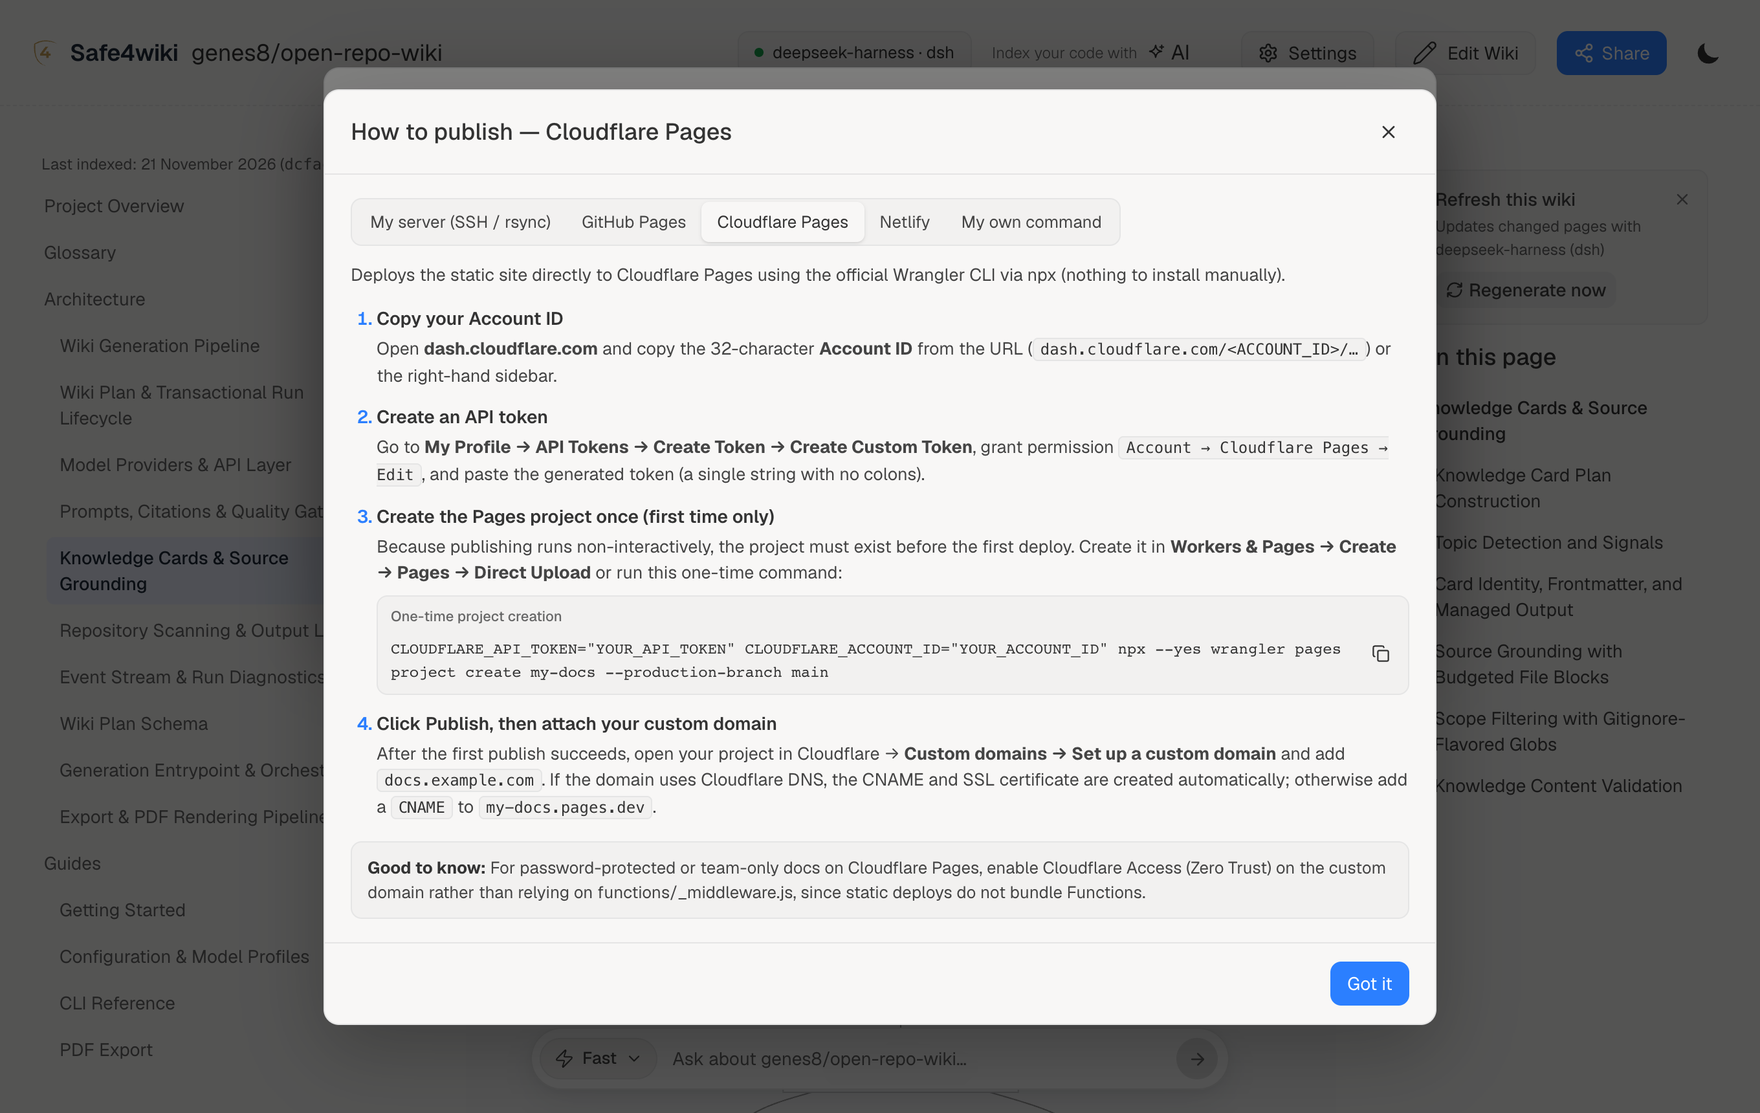
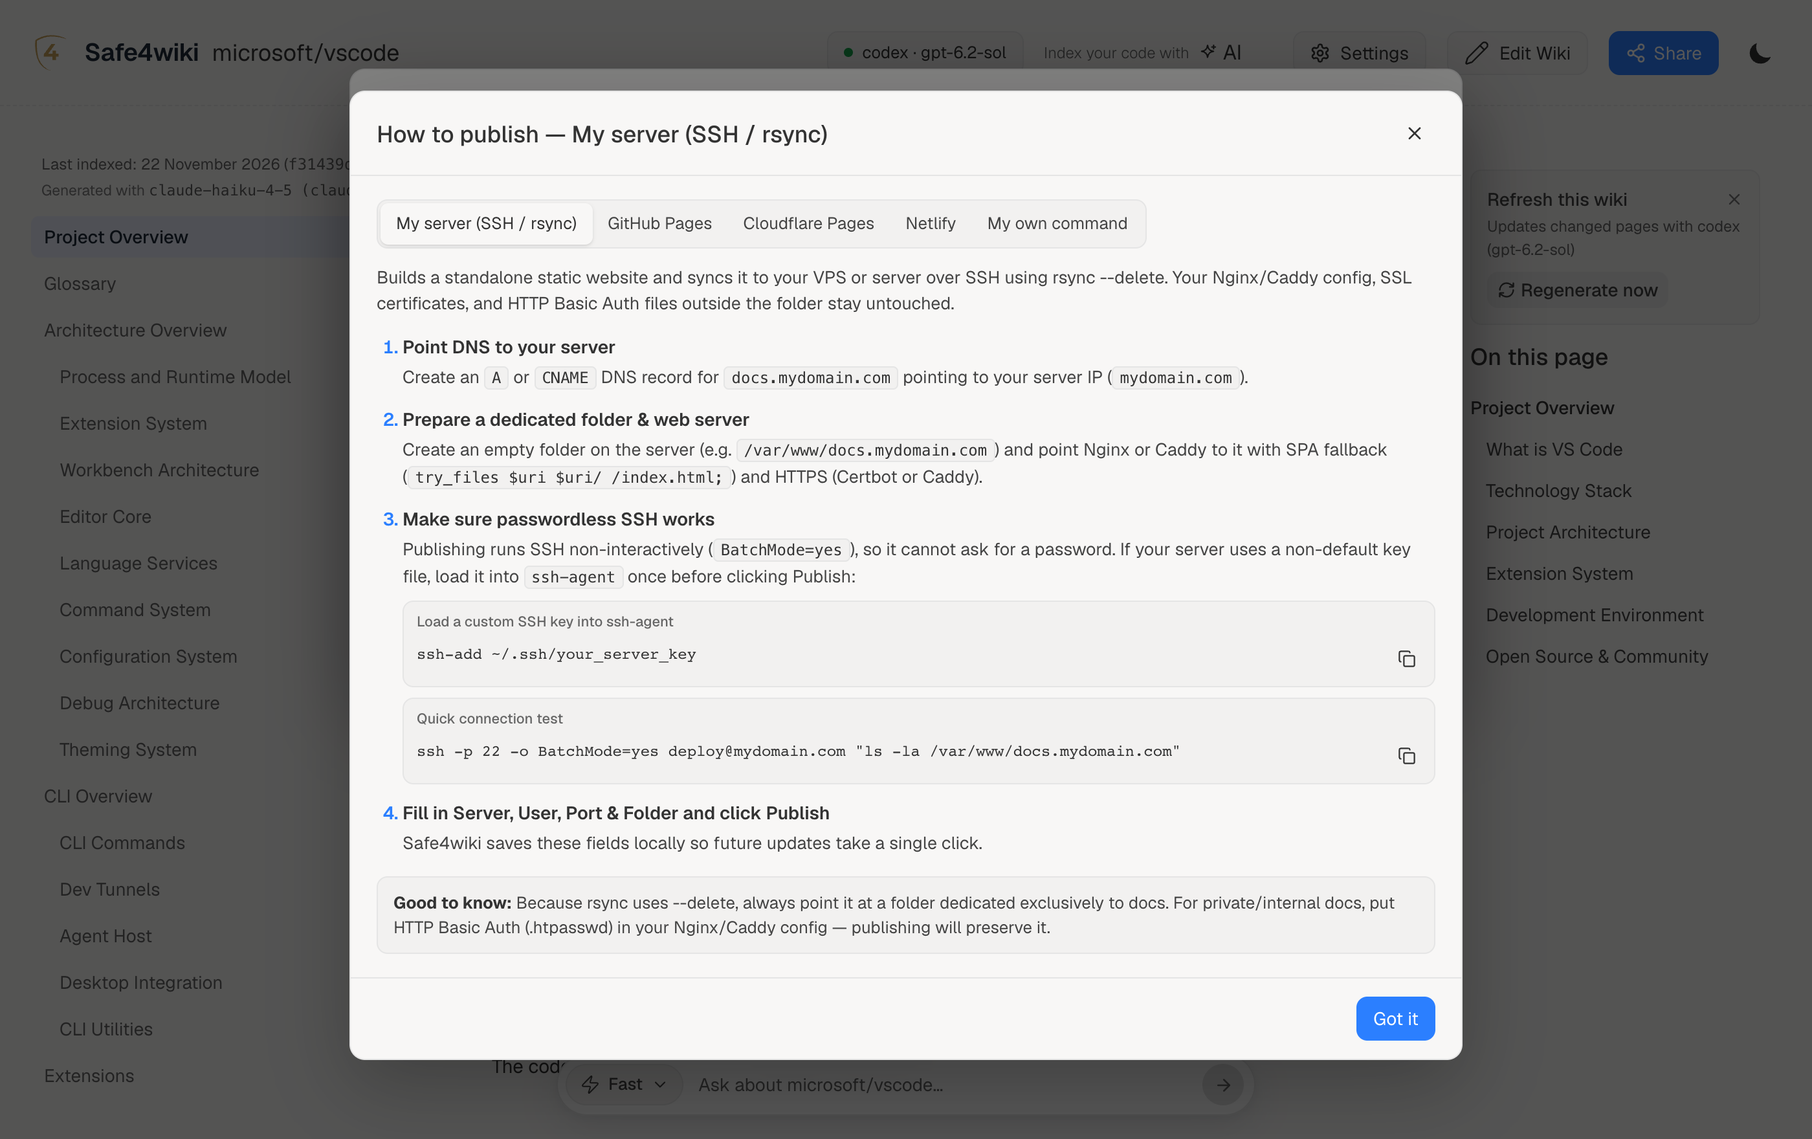
Refresh README to flagship open-source layout with 6 new 2x Retina screenshots

diff --git a/README.md b/README.md
@@ -1,65 +1,59 @@
-# Safe4wiki
+<div align="center">
+  <img src="public/brand/logo-monogram-gold.svg" alt="Safe4wiki Logo" width="68" height="68" />
+  <h1>Safe4wiki</h1>
+  <p><strong>Local-first, privacy-first AI documentation wiki for any codebase.</strong></p>
+  <p>
+    Turn local folders and private or public Git repositories into deep, citation-verified engineering wikis with rendered Mermaid diagrams, hybrid RAG code chat, offline PDF/HTML exports, and 1-click subdomain publishing — running 100% on your own machine.
+  </p>
 
-[![CI](https://github.com/Safe4ai-com/Safe4wiki/actions/workflows/ci.yml/badge.svg)](https://github.com/Safe4ai-com/Safe4wiki/actions/workflows/ci.yml)
-[![License](https://img.shields.io/badge/License-Apache_2.0-blue.svg)](LICENSE)
-[![Part of SafeSuite](https://img.shields.io/badge/SafeSuite-by%20Safe4AI-0f172a.svg)](https://safe4ai.com)
+  <p>
+    <a href="https://github.com/Safe4ai-com/Safe4wiki/actions/workflows/ci.yml">
+      <img src="https://github.com/Safe4ai-com/Safe4wiki/actions/workflows/ci.yml/badge.svg" alt="CI" />
+    </a>
+    <a href="https://github.com/Safe4ai-com/Safe4wiki/releases">
+      <img src="https://img.shields.io/github/v/release/Safe4ai-com/Safe4wiki?color=c5a059&label=Release" alt="Release" />
+    </a>
+    <a href="LICENSE">
+      <img src="https://img.shields.io/badge/License-Apache_2.0-2563eb.svg" alt="Apache-2.0 License" />
+    </a>
+    <a href="#quick-start">
+      <img src="https://img.shields.io/badge/Node.js-%E2%89%A518-339933.svg?logo=node.js&logoColor=white" alt="Node.js >= 18" />
+    </a>
+    <a href="https://safe4ai.com">
+      <img src="https://img.shields.io/badge/SafeSuite-by%20Safe4AI-0f172a.svg" alt="Part of SafeSuite by Safe4AI" />
+    </a>
+  </p>
 
-**Local-first, privacy-first AI documentation wiki for any codebase.**  
-Part of **[SafeSuite](https://github.com/Safe4ai-com)** — open-source AI engineering tools by **[Safe4AI](https://safe4ai.com)**.
+  <p>
+    <a href="#quick-start">Quick Start</a> ·
+    <a href="#key-features">Features</a> ·
+    <a href="#supported-ai-backends">Supported Models</a> ·
+    <a href="#benchmark-safe4wiki-vs-deepwikicom">Benchmark</a> ·
+    <a href="#architecture">Architecture</a> ·
+    <a href="#export--1-click-subdomain-publishing">Export &amp; Publish</a>
+  </p>
+</div>
 
-Generate deep, citation-grounded repository wikis with Mermaid architecture diagrams, explore your codebase through a hybrid RAG assistant with a live split-view code inspector, export offline single-file HTML or print-quality PDFs, and publish directly to your own subdomain — using **local LLMs**, **cloud APIs**, or **agent CLIs**.
+<br />
 
-![Safe4wiki Overview](docs/screenshots/wiki-overview.png)
+<div align="center">
+  <picture>
+    <source media="(prefers-color-scheme: dark)" srcset="docs/screenshots/home-dark.png" />
+    <source media="(prefers-color-scheme: light)" srcset="docs/screenshots/home-light.png" />
+    <img src="docs/screenshots/home-dark.png" alt="Safe4wiki Home Screen" width="100%" />
+  </picture>
+</div>
 
 ---
 
-## Benchmark: Safe4wiki vs DeepWiki.com
+## Why Safe4wiki?
 
-We ran a head-to-head comparison on the exact same public repository and commit — **[`genes8/open-repo-wiki`](https://github.com/genes8/open-repo-wiki) @ `dcfac26`** (101 repository files) — auditing every generated page on disk and live in headless Chrome:
+Most AI documentation tools force you to upload private source code to a third-party cloud, lock you into a single model, and leave you stuck inside a hosted viewer. **Safe4wiki flips the model:**
 
-| Metric | **Safe4wiki (Local)** | **DeepWiki.com (Hosted)** |
-|---|---:|---:|
-| **Pages generated** | **34** *(auto-scaled, incl. Glossary & 6 Design Docs)* | 33 |
-| **Documentation depth** | **36,540 words** · **71 structured tables** | ~300–450 words & 0 tables on core pages *(Overview: 341w, Engine: 442w, Providers: 273w)* |
-| **Mermaid diagrams (live Chrome render)** | **38 / 38 rendered (100%, 0 errors)** | **3 broken diagrams** across 4 inspected pages *(incl. both diagrams on LLM Provider Layer)* |
-| **Repository file coverage** | **96 / 101 files (95.0%)** | ~90% |
-| **Verified source citations** | **661 / 662 (99.8%)**, cleanly deduplicated into 1 drawer per page | Mixed unlinked plain-text citations & repeated `Sources:` blocks |
-| **Rendering / formatting defects** | **0** | Unrendered raw LaTeX (`Node.js $\ge$ 18`) + broken diagrams |
-| **Privacy & model choice** | **100% local** — Ollama, LM Studio, GGUF, BYO API, or Agent CLIs | Cloud-hosted only |
-| **Offline export & self-hosting** | Single-file offline HTML, Print PDF, Static ZIP, 1-click Publish | Web viewer only |
-
-> **Why Safe4wiki renders 100% of Mermaid diagrams:** Safe4wiki includes an automatic Mermaid sanitizer + retry renderer and fenced-code parser safeguards so tricky labels (parentheses, colons, inline backticks) still render cleanly as crisp SVGs.
-
----
-
-## Key Features
-
-- **100% Local & Private by Default** — Runs on `localhost:4317`. Works with local folders or private Git repositories (tokens stored locally with `chmod 600` and never exposed to the browser). Ships with 2 complete, real-world **example wikis** (`microsoft/vscode` — 60 pages, `microsoft/playwright` — 49 pages) so you can inspect the full output quality immediately while your own generated wikis stay private under `~/.repowiki`.
-- **Interchangeable AI Backends**
-  - **Local models:** Ollama, LM Studio, llama.cpp server, vLLM, or direct `.gguf` inference (`node-llama-cpp`)
-  - **Cloud APIs:** Any OpenAI-compatible endpoint (OpenAI, OpenRouter, Groq, DeepSeek, GLM, self-hosted) and Anthropic-compatible endpoints
-  - **Agent CLIs:** DeepSeek Harness (`dsh`), ZCode, Claude Code, Codex, Gemini CLI, OpenCode, or any custom CLI command
-- **Deep, Grounded Wiki Generation**
-  - Auto-scaling page budget (`Auto` adapts from small repos up to 60+ pages with up to 3-level hierarchy)
-  - Automatic project **Glossary** and structured landing pages
-  - Verified source-file citations deduplicated cleanly into each page's **Relevant source files** drawer
-  - Auto-healed **Mermaid** diagrams with pan/zoom lightbox and instant cache
-  - Transactional staged builds + incremental regeneration (skips unchanged pages and preserves manual edits)
-- **Hybrid RAG Code Assistant**
-  - Combines wiki sections and source-code chunks (BM25 + optional background semantic embeddings with zero startup wait)
-  - Streamed answers with clickable file & line-range chips
-  - On-demand **Split-View Live Code Inspector** and file attachments
-- **Export & 1-Click Subdomain Publishing**
-  - **Single-file offline HTML (`*-docs.html`)** — self-contained with pre-rendered SVG diagrams, sidebar, search, and dark/light theme (works directly via `file://` with zero external requests)
-  - **Print-quality PDF** — cover page, table of contents, and rendered diagrams via Chromium/Playwright
-  - **Static Website Export (ZIP or folder)** — with fast client-side search across all pages
-  - **Publish to your subdomain** with built-in step-by-step setup guides: **SSH / rsync**, **GitHub Pages** (auto `CNAME` + `.nojekyll`), **Cloudflare Pages**, **Netlify**, or **custom command**
-
-### Architecture Diagrams & Built-in Publishing Guides
-
-![Rendered Mermaid Diagram](docs/screenshots/wiki-diagram.png)
-
-![Publish Setup Guide](docs/screenshots/publish-setup-guide.png)
+- **Your code never leaves your machine** unless you explicitly choose a cloud API — run completely offline with **Ollama**, **LM Studio**, **llama.cpp**, or a raw **`.gguf`** file.
+- **Bring any model or coding CLI** — seamlessly switch between local GPUs, OpenAI/Anthropic-compatible APIs, or your existing CLI subscriptions (**Claude Code**, **Codex**, **OpenCode**, **DeepSeek Harness**, **ZCode**, **Gemini CLI**).
+- **Never lose progress on large repos** — pause anytime, auto-pause when a provider hits rate/5-hour limits, and resume from the exact next page (even after switching models).
+- **Own the output** — export a print-ready **PDF**, a single self-contained **offline HTML** handbook, or publish a static site directly to **your own subdomain** in one click.
 
 ---
 
@@ -69,14 +63,16 @@ We ran a head-to-head comparison on the exact same public repository and commit 
 
 ### Option A — 1-Click Local App Launcher (macOS)
 
-[![Open Safe4wiki.command](docs/assets/launch-safe4wiki.svg)](Open%20Safe4wiki.command)
+<a href="Open%20Safe4wiki.command">
+  <img src="docs/assets/launch-safe4wiki.svg" alt="Open Safe4wiki.command" width="460" />
+</a>
 
-After cloning or downloading the repo, simply double-click **[`Open Safe4wiki.command`](Open%20Safe4wiki.command)** in Finder:
-- Automatically installs dependencies and builds the UI on first launch (if not built yet)
-- Starts the local Safe4wiki server and opens **`http://localhost:4317`** in your browser
-- If Safe4wiki is already running, it opens the browser tab immediately without starting a second server
+After cloning or downloading the repo, double-click **[`Open Safe4wiki.command`](Open%20Safe4wiki.command)** in Finder:
+- Automatically installs dependencies and builds the UI on first launch
+- Starts the local server and opens **`http://localhost:4317`** in your browser
+- Re-clicking while already running opens the browser tab immediately without spawning a duplicate server
 
-*(First time on macOS: if Gatekeeper prompts, right-click `Open Safe4wiki.command` → **Open** once.)*
+*(First launch on macOS: if Gatekeeper prompts, right-click `Open Safe4wiki.command` → **Open** once.)*
 
 ### Option B — Terminal (macOS, Linux, Windows)
 
@@ -88,45 +84,166 @@ npm run build
 npm start
 ```
 
-Safe4wiki opens automatically at **`http://localhost:4317`**.
+Safe4wiki opens automatically at **`http://localhost:4317`** with **2 complete, real-world example wikis** already bundled so you can explore the full UI immediately:
+- **[`microsoft/vscode`](src/data/demos/vscode.js)** — **60 pages** generated with `claude-haiku-4-5`
+- **[`microsoft/playwright`](src/data/demos/playwright.js)** — **49 pages** generated with `deepseek-v4.1-flash-free (opencode)` + `claude-haiku-4-5`
 
 ---
 
-## First-Time Workflow
+## Visual Tour
 
-1. **Configure a model** — Click **Settings** in the top bar and pick a preset (Ollama, LM Studio, OpenAI/Anthropic API, or an installed Agent CLI such as `dsh`, `claude`, `codex`, `gemini`, `zcode`, or `opencode`), then click **Test**.
-2. **Add a repository** — Click **Add repository** on the home screen and point it to a local folder or a Git URL (SSH or HTTPS + token).
-3. **Explore & ask** — Browse generated chapters and diagrams, or use the **Ask about …** bar at the bottom to run hybrid RAG queries with clickable source citations and live code inspection.
-4. **Export or publish** — Click **Share** to export a single-file offline HTML handbook, print-ready PDF, static hosting bundle, or publish directly to your subdomain (click **`ⓘ Setup guide`** inside the Publish dialog for step-by-step instructions per host).
+### Deep, Citation-Grounded Documentation & 3-Level Navigation
+Every page is verified against real repository files, cleanly deduplicated into a collapsible **Relevant source files** drawer, tagged with the exact commit & generating model, and paired with a floating **Hybrid RAG** chat bar.
+
+<img src="docs/screenshots/wiki-overview.png" alt="Safe4wiki VS Code Documentation Overview" width="100%" />
+
+### Auto-Healed Mermaid Architecture Diagrams
+Safe4wiki validates and automatically repairs Mermaid syntax (sequence diagrams, flowcharts, class diagrams, state graphs) with an interactive pan/zoom lightbox and instant client-side SVG caching.
+
+<img src="docs/screenshots/wiki-diagram.png" alt="Safe4wiki Rendered Mermaid Sequence Diagram" width="100%" />
+
+### Unified Model Hub — Local, Cloud APIs & Agent CLIs
+Configure separate models for wiki generation and chat, trigger 1-click Terminal authentication (`Auth`), pick reasoning effort per CLI, and live-discover installed models from Ollama, OpenCode, and Codex.
+
+<img src="docs/screenshots/model-settings.png" alt="Safe4wiki Models and Settings Dialog" width="100%" />
+
+### Built-In Step-by-Step Subdomain Publishing Guides
+Click **`Share → Publish to my subdomain → ⓘ Setup guide`** for tailored, copyable setup commands covering **SSH / rsync**, **GitHub Pages**, **Cloudflare Pages**, **Netlify**, and custom deploy scripts.
+
+<img src="docs/screenshots/publish-setup-guide.png" alt="Safe4wiki Built-In Publish Setup Guide" width="100%" />
 
 ---
 
-## Configuration
+## Key Features
 
-| Environment Variable | Default | Description |
-|---|---|---|
-| `PORT` | `4317` | Local HTTP port (`127.0.0.1` only) |
-| `REPOWIKI_HOME` | `~/.repowiki` | Directory where settings, generated wikis, embeddings cache, and cloned repos are stored |
-
-For PDF export, Safe4wiki automatically uses an installed Chrome/Chromium browser or Playwright Chromium (`npx playwright install chromium`). If neither is available, it falls back cleanly to browser print view.
+<table>
+  <tr>
+    <td width="50%" valign="top">
+      <h3>Deep Multi-Page Wiki Engine</h3>
+      <ul>
+        <li><strong>Auto-scaling page budget</strong> — adapts automatically from small libraries to 60+ page monorepos with 3-level nested trees and automatic <strong>Glossary</strong> pages.</li>
+        <li><strong>Pause, Resume &amp; Auto-Pause</strong> — saves completed pages and the accepted plan to disk; automatically pauses on provider quota/rate limits (including 5-hour CLI limits) so you can resume later or finish with another model.</li>
+        <li><strong>Smart Parallel Scheduler</strong> — runs multiple cloud/CLI generations simultaneously across different repos while serializing local GPU models cleanly to prevent VRAM thrashing.</li>
+        <li><strong>Transactional &amp; Incremental</strong> — staged builds never corrupt a live wiki; regenerations skip unchanged pages and preserve manual edits.</li>
+      </ul>
+    </td>
+    <td width="50%" valign="top">
+      <h3>Hybrid RAG Chat &amp; Code Inspector</h3>
+      <ul>
+        <li><strong>Hybrid retrieval</strong> — combines BM25 lexical search over wiki sections &amp; source chunks with optional background semantic embeddings (zero startup delay).</li>
+        <li><strong>Verified line citations</strong> — streamed answers include clickable file and line-range chips.</li>
+        <li><strong>Split-View Code Inspector</strong> — click any cited file to inspect highlighted source code side-by-side without leaving the wiki.</li>
+        <li><strong>File attachments &amp; model selector</strong> — attach extra context files and pick a fast dedicated chat model independently from your wiki generator.</li>
+      </ul>
+    </td>
+  </tr>
+  <tr>
+    <td width="50%" valign="top">
+      <h3>Privacy-First Local Architecture</h3>
+      <ul>
+        <li><strong>Localhost-only server</strong> (<code>127.0.0.1:4317</code>) with zero telemetry.</li>
+        <li><strong>Private Git &amp; LFS support</strong> — works with local folders, SSH keys, or HTTPS tokens (stored locally with <code>chmod 600</code> and masked from the browser), skipping Git LFS smudges cleanly.</li>
+        <li><strong>Isolated CLI credentials</strong> — keeps per-tool auth sessions clean without interfering with desktop apps.</li>
+        <li><strong>Model provenance</strong> — subtly displays <code>Generated with &lt;model&gt;</code> on wiki cards, sidebars, HTML exports, and PDF covers for transparent quality comparisons.</li>
+      </ul>
+    </td>
+    <td width="50%" valign="top">
+      <h3 id="export--1-click-subdomain-publishing">Export &amp; 1-Click Subdomain Publishing</h3>
+      <ul>
+        <li><strong>Single-file offline HTML (<code>*-docs.html</code>)</strong> — self-contained handbook with pre-rendered SVG diagrams, full-text search, and dark/light theme that works directly via <code>file://</code>.</li>
+        <li><strong>Print-quality PDF</strong> — cover page, numbered table of contents, and crisp vector diagrams via Chromium/Playwright.</li>
+        <li><strong>Static website bundle (ZIP / folder)</strong> — ready for any CDN or static host with instant client-side search.</li>
+        <li><strong>1-Click Publish</strong> — deploy straight to <strong>SSH/rsync</strong> (preserves Nginx/Basic Auth/SSL), <strong>GitHub Pages</strong> (auto <code>CNAME</code> + <code>.nojekyll</code>), <strong>Cloudflare Pages</strong>, <strong>Netlify</strong>, or your own shell command.</li>
+      </ul>
+    </td>
+  </tr>
+</table>
 
 ---
 
-## Development & Testing
+## Supported AI Backends
+
+| Category | Backends | Highlights |
+| :--- | :--- | :--- |
+| **Local (100% Offline)** | **Ollama**, **LM Studio**, **llama.cpp server / vLLM**, direct **`.gguf`** (`node-llama-cpp`) | Live model list discovery, thinking-token stripping, configurable `num_ctx`, 15-min local timeout, single GPU slot scheduling |
+| **Online APIs** | **OpenAI-compatible** (OpenAI, OpenRouter, Groq, DeepSeek, Z.AI/GLM, self-hosted), **Anthropic-compatible** | Configurable concurrency, masked `chmod 600` key storage, `env:VAR_NAME` support |
+| **Agent CLIs** | **Claude Code** (`claude`), **Codex** (`codex`), **OpenCode** (`opencode`), **DeepSeek Harness** (`dsh`), **ZCode** (`zcode`), **Gemini CLI** (`gemini`), or **custom CLI** | 1-click Terminal **`Auth`**, per-CLI **reasoning effort** (`low` → `max`/`ultra`), live model discovery (`opencode models` & `~/.codex/models_cache.json`) |
+
+---
+
+## Benchmark: Safe4wiki vs DeepWiki.com
+
+We ran a head-to-head comparison on the exact same public repository and commit — **[`genes8/open-repo-wiki`](https://github.com/genes8/open-repo-wiki) @ `dcfac26`** (101 repository files) — auditing every generated page on disk and live in headless Chrome:
+
+| Metric | **Safe4wiki (Local)** | **DeepWiki.com (Hosted)** |
+| :--- | :---: | :---: |
+| **Pages generated** | **34** *(auto-scaled, incl. Glossary & 6 Design Docs)* | 33 |
+| **Documentation depth** | **36,540 words · 71 structured tables** | ~300–450 words & 0 tables on core pages |
+| **Mermaid diagrams (live Chrome render)** | **38 / 38 rendered (100%, 0 errors)** | **3 broken diagrams** across 4 inspected pages |
+| **Repository file coverage** | **96 / 101 files (95.0%)** | ~90% |
+| **Verified source citations** | **661 / 662 (99.8%)**, deduplicated into 1 drawer/page | Mixed plain-text citations & repeated `Sources:` blocks |
+| **Rendering / formatting defects** | **0** | Unrendered raw LaTeX (`Node.js $\ge$ 18`) + broken diagrams |
+| **Privacy & model choice** | **100% local** — Ollama, GGUF, BYO API, or Agent CLIs | Cloud-hosted only |
+| **Offline export & self-hosting** | Single-file HTML, Print PDF, Static ZIP, 1-click Publish | Web viewer only |
+
+> **Why Safe4wiki renders 100% of Mermaid diagrams:** Safe4wiki ships with a line-anchored fenced-code parser plus an automatic Mermaid sanitizer and retry renderer so tricky labels (parentheses, colons, inline code fences) still render cleanly as crisp SVGs.
+
+---
+
+## Architecture
+
+```mermaid
+flowchart LR
+  UI["React + Vite Web UI<br/>(Wiki · Diagrams · RAG Chat · Publish)"]
+  API["Local Node.js Server<br/>127.0.0.1:4317 · SSE Streams"]
+  SCHED["Parallel Job Scheduler<br/>Cloud/CLI Parallel · 1 Local GPU Slot"]
+  WORKER["Isolated Worker Process<br/>Scan → Plan → Generate → Validate"]
+  STORE["~/.repowiki Storage<br/>Transactional Stage · .state.json · Catalog"]
+  RAG["Hybrid RAG Engine<br/>BM25 + Optional Semantic Embeddings"]
+  OUT["Exporters & Publishers<br/>PDF · Single-File HTML · ZIP · SSH/Pages"]
+
+  UI <--> API
+  API --> SCHED --> WORKER
+  WORKER --> STORE
+  API --> RAG --> STORE
+  API --> OUT --> STORE
+```
+
+---
+
+## Configuration & Development
+
+### Environment Variables
+
+| Variable | Default | Description |
+| :--- | :--- | :--- |
+| `PORT` | `4317` | Local HTTP port (bound strictly to `127.0.0.1`) |
+| `REPOWIKI_HOME` | `~/.repowiki` | Directory where settings, generated wikis, embeddings cache, and cloned repos live |
+
+For PDF export, Safe4wiki automatically detects an installed Chrome/Chromium browser or Playwright Chromium (`npx playwright install chromium`), falling back cleanly to browser print view if neither is available.
+
+### Scripts
 
 ```bash
-npm run build   # Type-check (tsc --noEmit), bundle frontend (Vite), and generate static routes
-npm test        # Run server & preprocessing test suite (node --test)
-npm start       # Start the local Safe4wiki server
+npm run build   # Type-check (tsc --noEmit), bundle frontend (Vite), and pre-render static routes
+npm test        # Run server, engine, scheduler, pause/resume & export test suite (node --test)
+npm start       # Start the local Safe4wiki server at http://localhost:4317
 ```
 
 ---
 
 ## SafeSuite Ecosystem
 
-Safe4wiki is the first open-source product in **[SafeSuite](https://github.com/Safe4ai-com)** — a growing collection of local-first, privacy-respecting AI developer tools created by **[Safe4AI](https://safe4ai.com)**.
-
-Follow the **[Safe4ai-com organization](https://github.com/Safe4ai-com)** for upcoming SafeSuite releases.
+<div align="center">
+  <p>Safe4wiki is the flagship open-source product in <strong><a href="https://github.com/Safe4ai-com">SafeSuite</a></strong> — a growing collection of local-first, privacy-respecting AI developer tools created by <strong><a href="https://safe4ai.com">Safe4AI</a></strong>.</p>
+  <a href="https://safe4ai.com">
+    <picture>
+      <source media="(prefers-color-scheme: dark)" srcset="public/brand/logo-horizontal-ondark.svg" />
+      <source media="(prefers-color-scheme: light)" srcset="public/brand/logo-horizontal-onlight.svg" />
+      <img src="public/brand/logo-horizontal-onlight.svg" alt="Safe4AI" height="36" />
+    </picture>
+  </a>
+</div>
 
 ---
 
